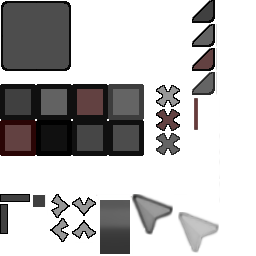
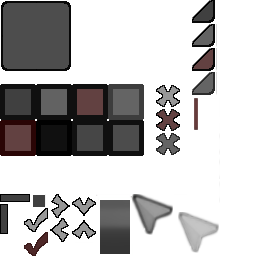
live reload check box in demo

Changed region(s): [[0.0938, 0.9062, 0.1875, 1.0], [0.0938, 0.8125, 0.1875, 0.9062]]

diff --git a/src/recipes.rs b/src/recipes.rs
@@ -219,22 +219,22 @@ impl Frame {
           size: [12, 12]
           align: Right
           foreground: gui/arrow_down
-    combo_box_popup:
-      from: scrollpane
-      width_from: Parent
-      height_from: Normal
-      size: [0, 75]
-      background: gui/small_button_normal
-      children:
-        content:
-          size: [-15, 0]
+        combo_box_popup:
+          from: scrollpane
+          width_from: Parent
+          height_from: Normal
+          size: [10, 75]
+          background: gui/small_button_normal
           children:
-            entry:
-              from: button
-              width_from: Parent
-              size: [0, 25]
-        scrollbar_vertical:
-          size: [20, 30]
+            content:
+              size: [-18, -10]
+              children:
+                entry:
+                  from: button
+                  width_from: Parent
+                  size: [0, 25]
+            scrollbar_vertical:
+              size: [20, 20]
     ```
     **/
     pub fn combo_box<'a, T: Display>(&mut self, theme: &str, id: &str, current: &T, values: &'a [T]) -> Option<&'a T> {

diff --git a/examples/demo.rs b/examples/demo.rs
@@ -41,6 +41,7 @@ pub struct Party {
     members: Vec<Character>,
     editing_index: Option<usize>,
 
+    live_reload_disabled: bool,
     reload_assets: bool,
     old_theme_choice: Option<ThemeChoice>,
     theme_choice: ThemeChoice,
@@ -63,7 +64,7 @@ impl Party {
                 log::error!("Unable to rebuild theme: {}", e);
             }
             self.reload_assets = false;
-        } else {
+        } else if !self.live_reload_disabled {
             if let Err(e) = context.check_live_reload(renderer) {
                 log::error!("Unable to live reload theme: {}", e);
             }
@@ -170,8 +171,8 @@ pub fn build_ui(ui: &mut Frame, party: &mut Party) {
     ));
 
     ui.start("theme_panel").children(|ui| {
-        if ui.child("reload").clicked {
-            party.reload_assets = true;
+        if ui.start("live_reload").active(!party.live_reload_disabled).finish().clicked {
+            party.live_reload_disabled = !party.live_reload_disabled;
         }
 
         if let Some(choice) = ui.combo_box("theme_choice", "theme_choice", &party.theme_choice, &THEME_CHOICES) {
